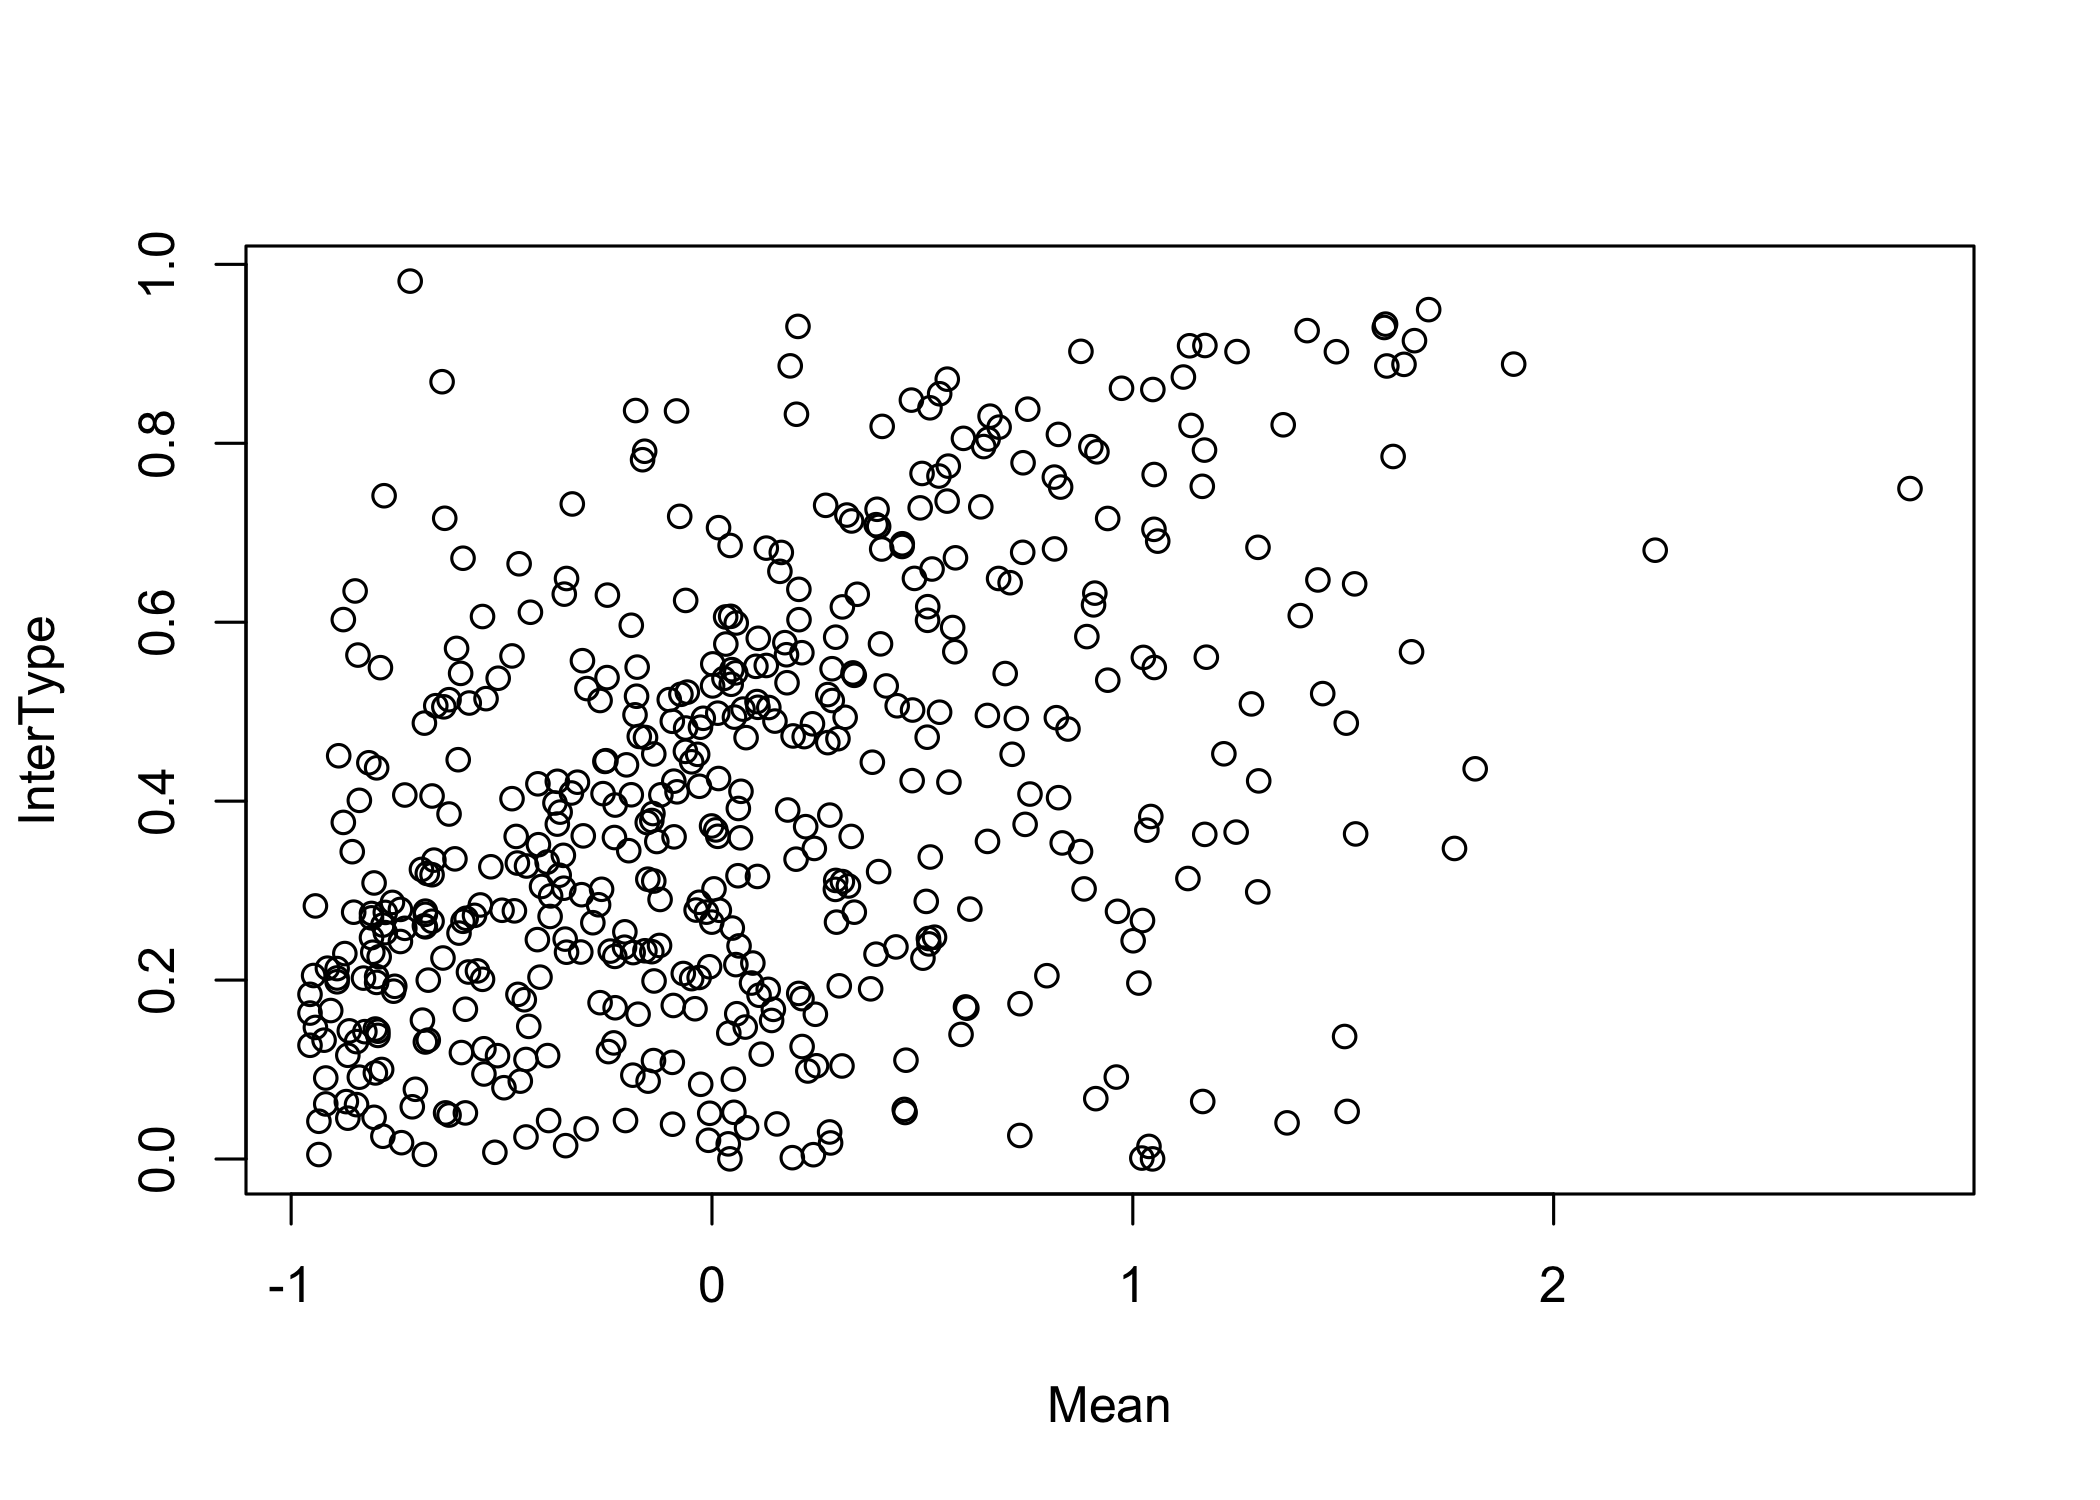
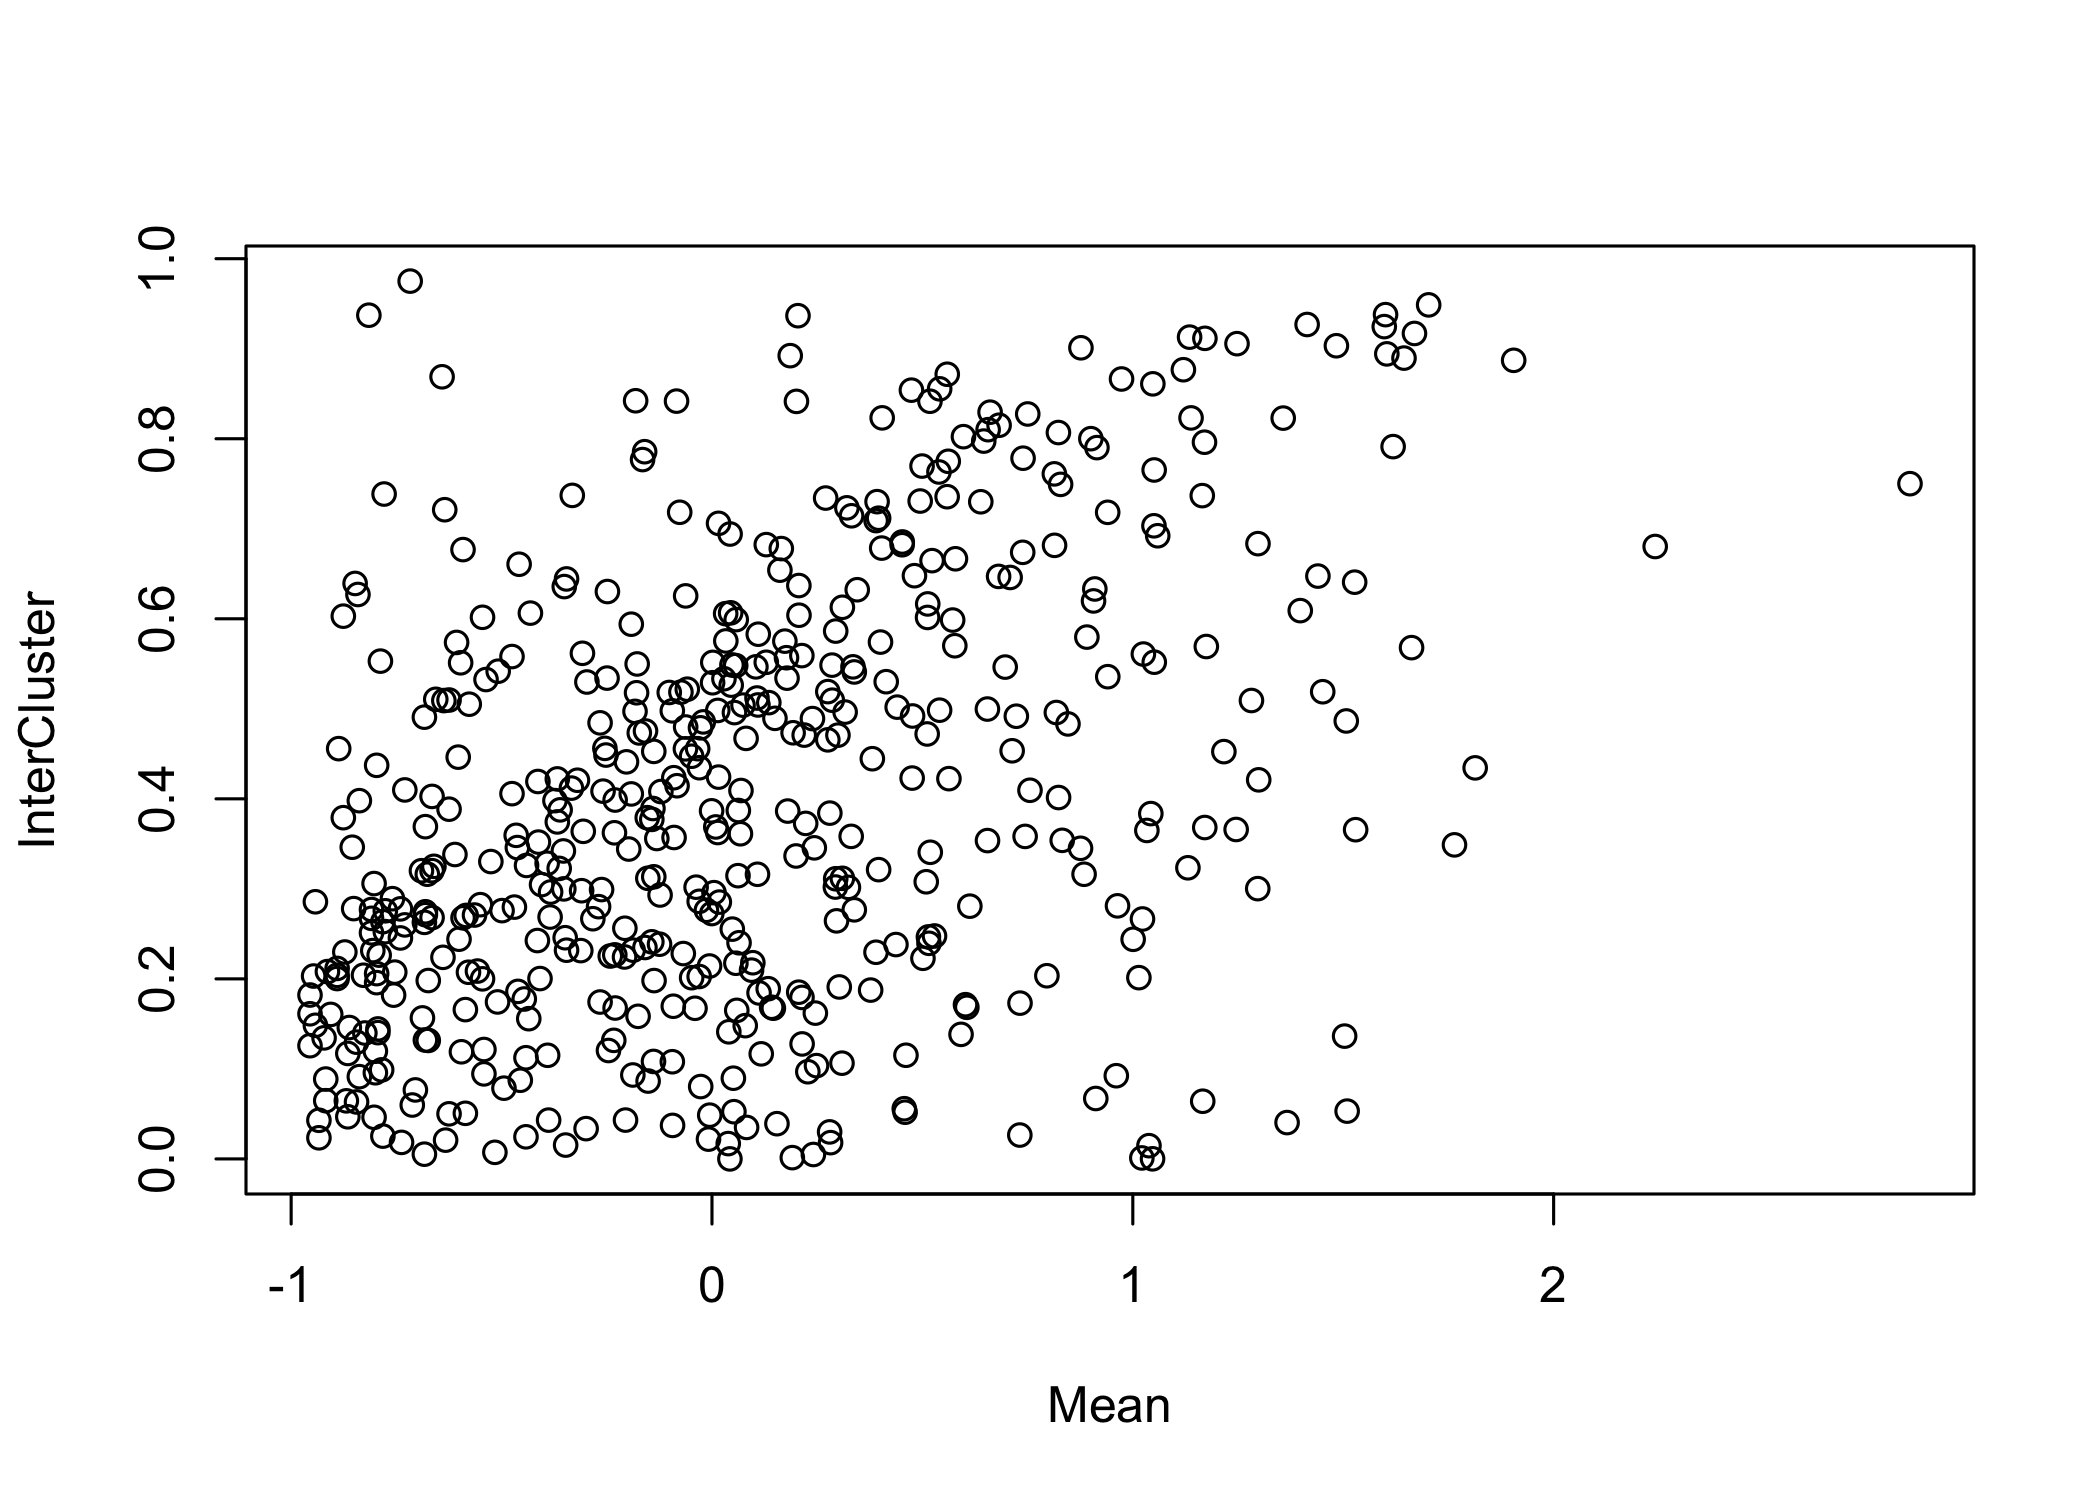
Update README for nongreedy default

diff --git a/README.md b/README.md
@@ -22,7 +22,7 @@ You can install the the development version from
 Workflow
 --------
 
-The basic workflow is demonstrated on the Tian et al (2018) single-cell
+The basic workflow is demonstrated on the Tian et al 2018, single-cell
 mixology data set, a mixture of three cancerous cell lines
 (<a href="https://github.com/LuyiTian/sc_mixology" class="uri">https://github.com/LuyiTian/sc_mixology</a>).
 
@@ -45,9 +45,9 @@ mixology data set, a mixture of three cancerous cell lines
     CountsMatrix <- CountsMatrix[GOI,]
     Mean <- Mean[GOI]
 
-    Clustering <- Cluster(CountsMatrix, numClus = 3)
-    InterType <- DifferentialExpression(CountsMatrix)
+    Clustering <- scEC::Cluster(CountsMatrix, numClus = 3)
+    InterCluster <- DifferentialExpression(CountsMatrix, Clustering)
 
-    plot(Mean, InterType)
+    plot(Mean, InterCluster)
 
 <img src="man/figures/README-unnamed-chunk-3-1.png" width="100%" />
